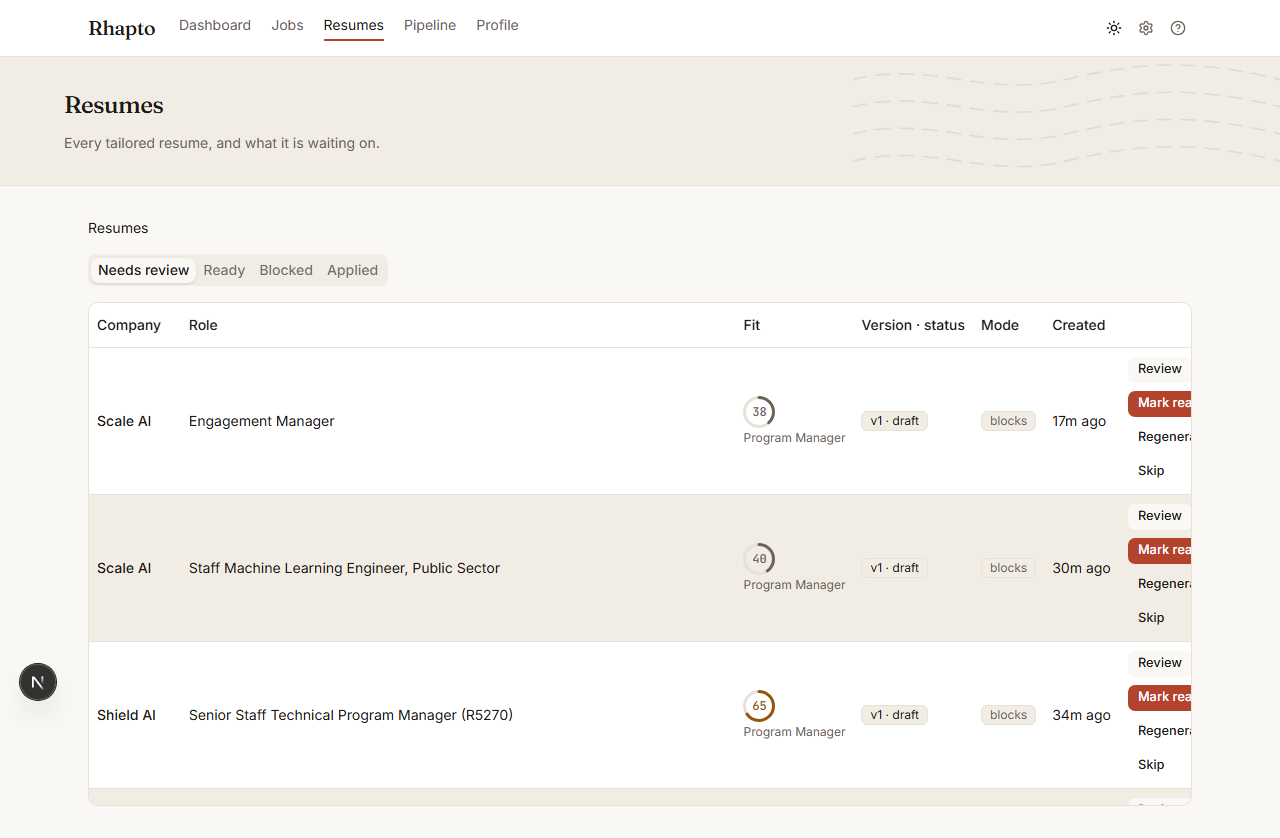
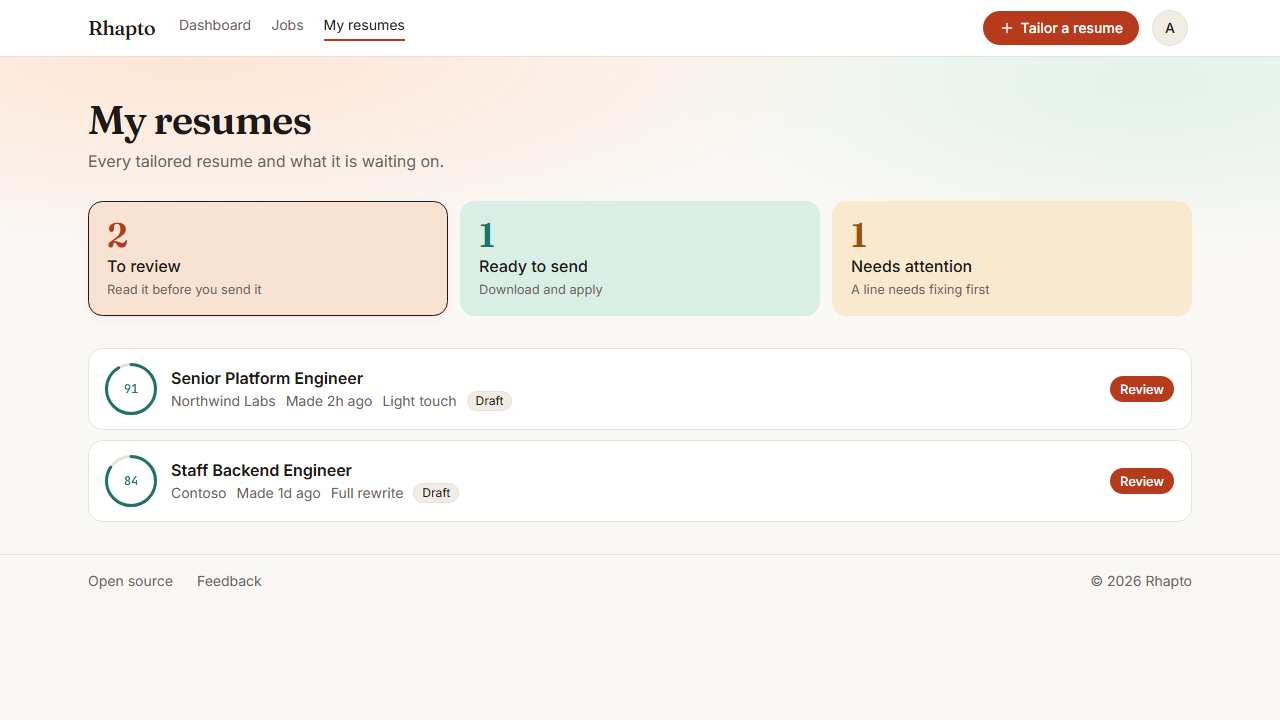
Docs and screenshots for the new Jobs, My resumes and Profile layout; comment fixes; profile skeleton height
Claude-Session: https://claude.ai/code/session_018dSSpvRW5CYcAaJveuzPAv

diff --git a/apps/web/src/components/shell/Shell.tsx b/apps/web/src/components/shell/Shell.tsx
@@ -4,9 +4,10 @@ import { TokenGate } from "./TokenGate";
 
 export function Shell({ children }: { children: React.ReactNode }) {
   return (
-    // overflow-x-clip: HeroBand breaks out to `w-screen`, which includes the scrollbar's width and
-    // so is a few pixels wider than the real viewport on any scrollable page. Clipping it here keeps
-    // that overflow from turning into a horizontal scrollbar instead of trying to size it exactly.
+    // overflow-x-clip: HeroBand's breakout and PageHero's `::before` wash are both `w-screen`, which includes
+    // the scrollbar's width and so is a few pixels wider than the real viewport on any scrollable page.
+    // Clipping it here keeps that overflow from turning into a horizontal scrollbar instead of trying to
+    // size it exactly.
     <div className="min-h-screen overflow-x-clip bg-background">
       <TopBar />
       <main className="mx-auto max-w-6xl px-4 py-8 sm:px-6">

diff --git a/apps/web/src/app/profile/page.tsx b/apps/web/src/app/profile/page.tsx
@@ -220,7 +220,7 @@ function ProfilePageInner() {
           heroLoading ? (
             <>
               <span className="sr-only">Loading your profile</span>
-              <Skeleton aria-hidden className="h-10 w-64 max-w-full" />
+              <Skeleton aria-hidden className="h-[1.15em] w-64 max-w-full" />
             </>
           ) : heroNothingToShow ? (
             "Your profile"
@@ -230,7 +230,7 @@ function ProfilePageInner() {
         }
         subtitle={
           heroLoading ? (
-            <Skeleton aria-hidden className="h-5 w-80 max-w-full" />
+            <Skeleton aria-hidden className="h-6 w-80 max-w-full" />
           ) : heroNothingToShow ? (
             <>Couldn&rsquo;t load your profile summary right now.</>
           ) : (

diff --git a/apps/web/src/components/shell/HeroBand.tsx b/apps/web/src/components/shell/HeroBand.tsx
@@ -45,7 +45,7 @@ export function HeroBand({
     >
       {glow ? null : <StitchMotif className="pointer-events-none absolute inset-y-0 right-0 hidden h-full w-1/3 md:block" />}
       {/* Glow: max-w-5xl is the front page's one content width (steps, tour, proof and closing use it
-          too). Other tones keep max-w-6xl: they are in-app pages whose content is left-aligned. */}
+          too). Other tones keep max-w-6xl; no in-app page uses them any more (signed-in pages use PageHero), so only the front page (glow) uses this component today. */}
       <div className={cn("relative mx-auto flex h-full w-full flex-col justify-center gap-3", glow ? "max-w-5xl items-center text-center" : "max-w-6xl")}>
         {children}
       </div>

diff --git a/apps/web/src/components/ui/job-row.tsx b/apps/web/src/components/ui/job-row.tsx
@@ -4,7 +4,8 @@ import { cn } from "cn";
 /**
  * The shell of one job in a list: fit ring, one-line title (wraps on phones), a meta line, and actions on
  * the right (below on phones). Hovering turns the border to the primary colour. Callers fill `meta` with
- * company, location and pills, and `actions` with buttons, so the Dashboard, Jobs and My resumes can share it.
+ * company, location and pills, and `actions` with whatever belongs there (buttons on the Dashboard, a button-looking
+ * span on My resumes, where the whole row is one link). The Dashboard and My resumes share it; Jobs uses `JobCard`.
  * Renders an `li` by default, for use inside a `ul`.
  */
 export function JobRow({

diff --git a/apps/web/src/components/shell/PageHero.tsx b/apps/web/src/components/shell/PageHero.tsx
@@ -2,7 +2,7 @@ import { cn } from "cn";
 
 /**
  * The signed-in pages' hero band: a warm wash behind the page title, summary and (optionally) one card on
- * the right, with room below for tiles or filters. Dashboard, Jobs and My resumes all use it.
+ * the right, with room below for tiles or filters. Dashboard, Jobs, My resumes and Profile all use it.
  *
  * Like HeroBand's glow tone, the content stays in main's own column (so it lines up with the header logo
  * and the sections below) and only the wash breaks out, as a viewport-wide ::before centred on that column.

diff --git a/docs/user-guide/jobs-and-search.md b/docs/user-guide/jobs-and-search.md
@@ -6,27 +6,30 @@ Jobs (`/jobs`) is where you search the whole market and browse everything Rhapto
 
 ## The search form
 
-The band at the top of the page holds the search form: a free-text **Title**, a free-text
+The top of the page shows how many jobs match your roles (and how many are new today), then the
+search form on a card: a free-text **Title**, a free-text
 **Location** (it defaults to your home location when left blank), a **Field** select that defaults
 to "My tracks" (score against your own roles rather than one field's generic keyword list), and a
 **Remote** select (include, remote only, or exclude remote). Press **Search** to run a live search
 across every enabled source; results stream back with unscored jobs showing a dashed ring until
 the scorer catches up.
 
-## Filter chips
+## Filters
 
-Below the search band sit three groups of filter chips: **Date posted** (24h, 7d, 30d, 90d, any time),
-**Source** (one chip per enabled source, multi-select), and **Fit** (75+, 60+, or all fits). Work type
-and salary are deliberately not filters in this version — salary shows directly on a card when the
+Under the search form: **Posted** (24h, 7d, 30d, 90d, Any time) and **Fit** (75+, 60+, All fits),
+each a row of options where one is picked, plus **Source** (one pill per enabled source,
+multi-select). Work type and salary are deliberately not filters in this version — salary shows directly on a card when the
 source provides it, but there's no way yet to filter the grid by it.
 
 ## Reading a card
 
-Each job card shows: a fit ring (with the score, or a dashed ring and a dash if unscored), the
-title and company, a track chip (which track it was scored against, if any), a source chip, a
-location-tier chip (Preferred area / Remote / US / Abroad), a Reposted chip when the posting has
-reappeared after being unlisted, salary when the source provides it, and "Posted · {relative
-time}".
+Each job card shows a fit ring on the left (with the score, or a dashed ring and a dash if
+unscored), then the title and a line with the company and location (the area label if the job has
+no location). Below that, a row of pills: salary when the source provides it, the track it was
+scored against, **New today** for jobs found in the last 24 hours, the source, an area label
+(Preferred area / Remote / US / Abroad), and **Reposted** when the posting has reappeared after
+being unlisted. At the bottom, "Posted {relative time}" sits beside the **Tailor** button and the
+eye button that hides the job.
 
 ## While the rings are dashed
 
@@ -40,8 +43,8 @@ error, and the ring fills in the next time you load the page.
 Above the grid, a **Sort** control switches between **Best match** (the default, which favours a
 strong match posted recently), **Highest fit**, and **Newest**. **Check for new jobs** asks every
 source for fresh postings now, without waiting for the regular schedule. **Show jobs I hid**
-reveals jobs you have marked Not interested, and lets you bring one back. Not interested on a card
-hides that job immediately, with an **Undo** toast that stays up for 8 seconds.
+reveals jobs you have marked Not interested, and lets you bring one back. Not interested (the eye button at
+the bottom right of a card) hides that job immediately, with an **Undo** toast that stays up for 8 seconds.
 
 Browse jobs pages client-side, 24 per page, with **Previous** / **Next** and "Page X of Y" below
 the grid. The current page is part of the URL, so the browser's Back button steps back through
@@ -49,7 +52,7 @@ pages one at a time rather than losing your place.
 
 ## Save this search
 
-Once you've run a search with a query, a "Save this search" button appears in the band (it's
+Once you've run a search with a query, a "Save this search" button appears next to the filters (it's
 hidden once the current query is already saved). Saving turns the search into one Rhapto's worker
 polls on its normal schedule going forward, and it starts tracking "N new" — new matches since you
 last opened its results, shown next to the search in Settings → Saved searches; its name opens the results.

diff --git a/docs/user-guide/resumes.md b/docs/user-guide/resumes.md
@@ -5,20 +5,23 @@ in the header, after Dashboard and Jobs.
 
 ![My resumes](images/resumes-light.png)
 
-## The three tabs
+## The three tiles
+
+Each tile shows how many resumes are in it; press one to list them.
 
 - **To review** - freshly tailored, not yet marked ready to send.
 - **Ready to send** - you have reviewed it and marked it ready.
 - **Needs attention** - the truth check held something back; it needs a fix before it can be ready.
 
-There is no Applied tab. Once you have applied, follow that application on the Dashboard, under
+There is no Applied tile. Once you have applied, follow that application on the Dashboard, under
 **Your applications**; its sheet links back to the resume you used.
 
 ## Reading a row
 
-Each row shows the company, the role, a fit ring, and a status badge. The whole row is one link to
-the resume's page; the word at its right end says what to do next: **Review**, or **Fix** when the
-truth check held the resume back.
+Each row shows a fit ring, the role, then the company, when it was made, how it was made (**Light
+touch** or **Full rewrite**) and its status. The whole row is one link to the resume's page; the
+button at its right says what to do next: **Review**, or **Fix** when the truth check held the
+resume back.
 
 ## Review
 

diff --git a/docs/user-guide/dashboard.md b/docs/user-guide/dashboard.md
@@ -28,7 +28,7 @@ With nothing to suggest, the card is not shown.
 
 ## The four tiles
 
-**To review** (opens the To review tab on My resumes), **Applied**, **Interviewing** and **Offers** show
+**To review** (opens the To review list on My resumes), **Applied**, **Interviewing** and **Offers** show
 the count and a short line beneath. The last three filter **Your applications** (on a phone they also
 scroll you there); press the same one again to clear the filter.
 
